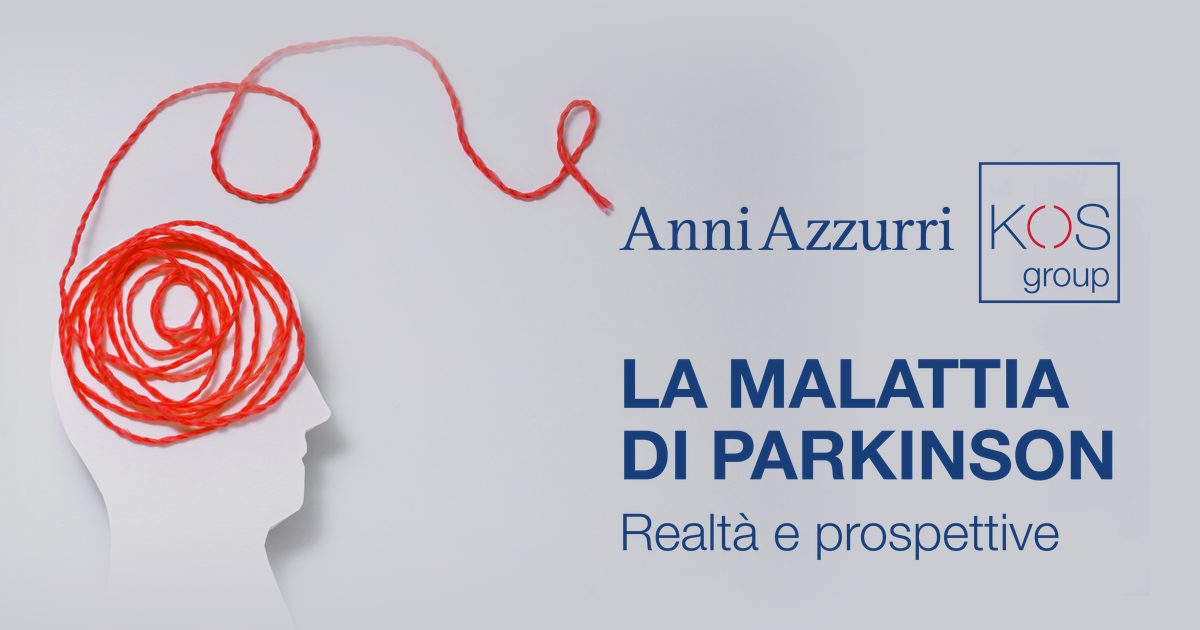
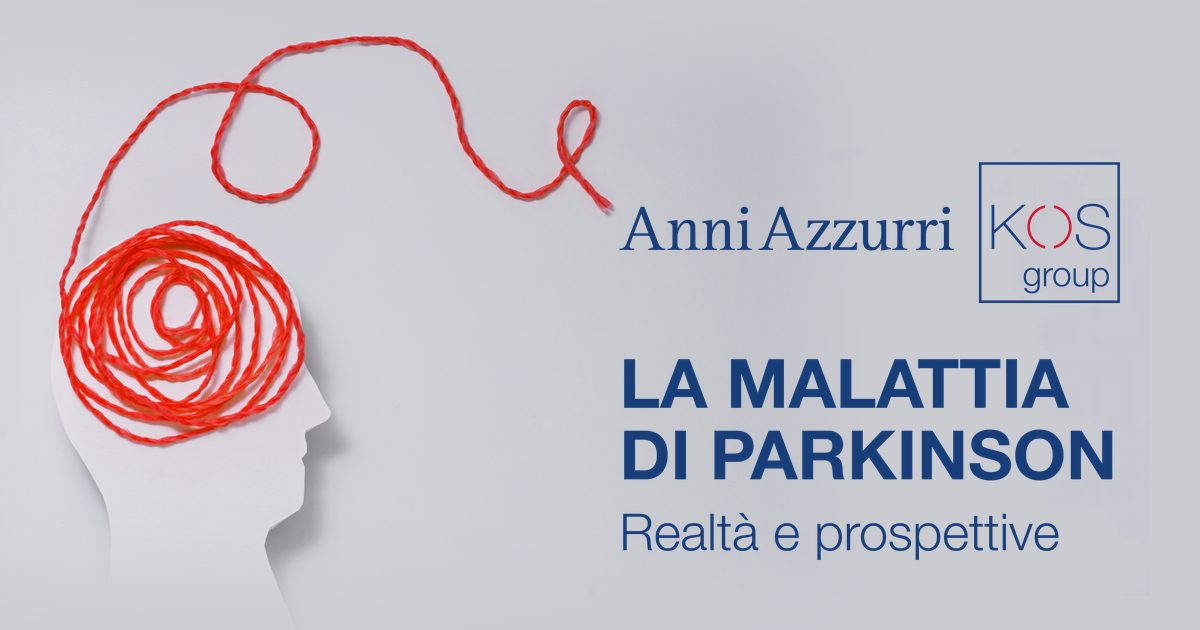
Extra aa-convegno-parkinson, aa-calendario-convegni: filo non sbiadito nelle immagini, opzione --aggiorna-file

diff --git a/extra/aa-calendario-convegni/installa.php b/extra/aa-calendario-convegni/installa.php
@@ -9,6 +9,7 @@
  * Uso (in SSH sul cloud, dalla cartella estratta dall'archivio):
  *   php installa.php /www                 prova: controlla tutto e mostra cosa cambierebbe, non scrive
  *   php installa.php /www --scrivi        installa
+ *   php installa.php /www --aggiorna-file [--scrivi]  sostituisce i file di files/ cambiati (backup e ripristino)
  *   php installa.php /www --ripristina ~/backup-kos-seo-geo/<data>-calendario-convegni/ripristino.json [--scrivi]
  *   php installa.php --test               prova la sostituzione del blocco su baseline/convegni-e-webinar.html (senza MODX)
  *
@@ -113,18 +114,18 @@ if ($fileRip !== null) {
     $r = json_decode((string) @file_get_contents($fileRip), true);
     if (!is_array($r)) { fwrite(STDERR, "Manifest di ripristino non leggibile: $fileRip\n"); exit(1); }
     echo ($scrivi ? "== RIPRISTINO" : "== PROVA DI RIPRISTINO (aggiungere --scrivi)") . " da $fileRip\n";
-    foreach ($r['contenuti'] as $x) {
+    foreach ($r['contenuti'] ?? [] as $x) {
         if (!is_file($x['file'])) { echo "  ! backup mancante: {$x['file']} — FERMO\n"; exit(2); }
     }
-    foreach ($r['contenuti'] as $x) {
+    foreach ($r['contenuti'] ?? [] as $x) {
         echo "  ~ risorsa {$x['id']}: contenuto originale\n";
         if ($scrivi && ($o = $modx->getObject(modResource::class, $x['id']))) { $o->set('content', file_get_contents($x['file'])); $o->save(); }
     }
-    foreach ($r['riassunti'] as $id => $vecchio) {
+    foreach ($r['riassunti'] ?? [] as $id => $vecchio) {
         echo "  ~ risorsa $id: riassunto «{$vecchio}»\n";
         if ($scrivi && ($o = $modx->getObject(modResource::class, (int) $id))) { $o->set('introtext', $vecchio); $o->save(); }
     }
-    foreach ($r['tv'] as $nome) {
+    foreach ($r['tv'] ?? [] as $nome) {
         echo "  - TV $nome (con valori e collegamenti)\n";
         if ($scrivi && ($tv = $modx->getObject(modTemplateVar::class, ['name' => $nome]))) {
             foreach ([modTemplateVarResource::class, modTemplateVarTemplate::class] as $cl) {
@@ -134,16 +135,53 @@ if ($fileRip !== null) {
             $tv->remove();
         }
     }
-    foreach ($r['elementi'] as $x) {
+    foreach ($r['elementi'] ?? [] as $x) {
         echo "  - {$x['type']} {$x['name']}\n";
         $cl = $x['type'] === 'snippet' ? modSnippet::class : modChunk::class;
         if ($scrivi && ($o = $modx->getObject($cl, ['name' => $x['name']]))) $o->remove();
+    }
+    foreach ($r['file_sostituiti'] ?? [] as $x) {
+        echo "  ~ file /{$x['file']}: versione precedente\n";
+        if ($scrivi) copy($x['backup'], "$webroot/{$x['file']}");
     }
     foreach ($r['file_creati'] as $f) {
         echo "  - file /$f\n";
         if ($scrivi) @unlink("$webroot/$f");
     }
     if ($scrivi) { $modx->cacheManager->refresh(); echo "== Cache svuotata.\n"; }
+    exit(0);
+}
+
+/* ---------- solo file: sostituisce immagini e documenti cambiati (con backup) ---------- */
+
+if (in_array('--aggiorna-file', $argv, true)) {
+    echo ($scrivi ? "== AGGIORNAMENTO FILE" : "== PROVA AGGIORNAMENTO FILE (aggiungere --scrivi)") . "\n";
+    $sorg = "$DIR/files";
+    $daFare = [];
+    foreach (new RecursiveIteratorIterator(new RecursiveDirectoryIterator($sorg, FilesystemIterator::SKIP_DOTS)) as $f) {
+        $rel = str_replace('\\', '/', substr($f->getPathname(), strlen($sorg) + 1));
+        $dest = "$webroot/$rel";
+        if (!is_file($dest)) { echo "  + /$rel (nuovo)\n"; $daFare[$rel] = [$f->getPathname(), false]; }
+        elseif (md5_file($dest) === md5_file($f->getPathname())) echo "  = /$rel invariato\n";
+        else { echo "  ~ /$rel (sostituito, il precedente va nel backup)\n"; $daFare[$rel] = [$f->getPathname(), true]; }
+    }
+    if (!$daFare) { echo "== Niente da aggiornare.\n"; exit(0); }
+    if (!$scrivi) { echo "== Prova riuscita. Rilanciare con --aggiorna-file --scrivi.\n"; exit(0); }
+    $bk = rtrim((string) (getenv('HOME') ?: $DIR), '/') . '/backup-kos-seo-geo/' . date('Ymd-His') . '-' . 'calendario-convegni' . '-file';
+    $rip = ['file_creati' => [], 'file_sostituiti' => []];
+    foreach ($daFare as $rel => [$src, $esiste]) {
+        if (!is_dir(dirname("$webroot/$rel"))) { echo "  ! cartella /" . dirname($rel) . " mancante — saltato\n"; continue; }
+        if ($esiste) {
+            @mkdir(dirname("$bk/file/$rel"), 0775, true);
+            copy("$webroot/$rel", "$bk/file/$rel");
+            $rip['file_sostituiti'][] = ['file' => $rel, 'backup' => "$bk/file/$rel"];
+        } else $rip['file_creati'][] = $rel;
+        copy($src, "$webroot/$rel");
+        @mkdir($bk, 0775, true);
+        file_put_contents("$bk/ripristino.json", json_encode($rip, JSON_PRETTY_PRINT | JSON_UNESCAPED_SLASHES));
+    }
+    $modx->cacheManager->refresh();      // le varianti di immagine si rigenerano (file più recente delle varianti)
+    echo "== File aggiornati, cache svuotata. Ripristino: php installa.php /www --ripristina $bk/ripristino.json --scrivi\n";
     exit(0);
 }
 

diff --git a/extra/aa-convegno-parkinson/installa.php b/extra/aa-convegno-parkinson/installa.php
@@ -11,6 +11,7 @@
  *   php installa.php /www --scrivi             installa le pagine NON pubblicate (anteprima dal manager)
  *   php installa.php /www --scrivi --pubblica  installa e pubblica (stage, o produzione ad approvazione)
  *   php installa.php /www --pubblica --scrivi  con le pagine già installate: le pubblica e basta
+ *   php installa.php /www --aggiorna-file [--scrivi]  sostituisce i file di files/ cambiati (backup e ripristino)
  *   php installa.php /www --ripristina ~/backup-kos-seo-geo/<data>-convegno-parkinson/ripristino.json [--scrivi]
  *
  * Cosa fa (con manifest di ripristino):
@@ -109,24 +110,61 @@ if ($fileRip !== null) {
     $r = json_decode((string) @file_get_contents($fileRip), true);
     if (!is_array($r)) { fwrite(STDERR, "Manifest di ripristino non leggibile: $fileRip\n"); exit(1); }
     echo ($scrivi ? "== RIPRISTINO" : "== PROVA DI RIPRISTINO (aggiungere --scrivi)") . " da $fileRip\n";
-    foreach ($r['risorse_create'] as $id) {
+    foreach ($r['risorse_create'] ?? [] as $id) {
         $o = $modx->getObject(modResource::class, $id);
         echo "  - risorsa $id" . ($o ? " «{$o->get('pagetitle')}» (/{$o->get('uri')})" : ' (già assente)') . "\n";
         if ($scrivi && $o) $o->remove();               // rimuove anche valori TV e gruppi
     }
-    foreach ($r['chunk_creati'] as $n) {
+    foreach ($r['chunk_creati'] ?? [] as $n) {
         echo "  - chunk $n\n";
         if ($scrivi && ($o = $modx->getObject(modChunk::class, ['name' => $n]))) $o->remove();
+    }
+    foreach ($r['file_sostituiti'] ?? [] as $x) {
+        echo "  ~ file /{$x['file']}: versione precedente\n";
+        if ($scrivi) copy($x['backup'], "$webroot/{$x['file']}");
     }
     foreach ($r['file_creati'] as $f) {
         echo "  - file /$f\n";
         if ($scrivi) @unlink("$webroot/$f");
     }
-    foreach (array_reverse($r['cartelle_create']) as $d) {
+    foreach (array_reverse($r['cartelle_create'] ?? []) as $d) {
         echo "  - cartella /$d (se vuota)\n";
         if ($scrivi) @rmdir("$webroot/$d");
     }
     if ($scrivi) { $modx->cacheManager->refresh(); echo "== Cache svuotata.\n"; }
+    exit(0);
+}
+
+/* ---------- solo file: sostituisce immagini e documenti cambiati (con backup) ---------- */
+
+if (in_array('--aggiorna-file', $argv, true)) {
+    echo ($scrivi ? "== AGGIORNAMENTO FILE" : "== PROVA AGGIORNAMENTO FILE (aggiungere --scrivi)") . "\n";
+    $sorg = "$DIR/files";
+    $daFare = [];
+    foreach (new RecursiveIteratorIterator(new RecursiveDirectoryIterator($sorg, FilesystemIterator::SKIP_DOTS)) as $f) {
+        $rel = str_replace('\\', '/', substr($f->getPathname(), strlen($sorg) + 1));
+        $dest = "$webroot/$rel";
+        if (!is_file($dest)) { echo "  + /$rel (nuovo)\n"; $daFare[$rel] = [$f->getPathname(), false]; }
+        elseif (md5_file($dest) === md5_file($f->getPathname())) echo "  = /$rel invariato\n";
+        else { echo "  ~ /$rel (sostituito, il precedente va nel backup)\n"; $daFare[$rel] = [$f->getPathname(), true]; }
+    }
+    if (!$daFare) { echo "== Niente da aggiornare.\n"; exit(0); }
+    if (!$scrivi) { echo "== Prova riuscita. Rilanciare con --aggiorna-file --scrivi.\n"; exit(0); }
+    $bk = rtrim((string) (getenv('HOME') ?: $DIR), '/') . '/backup-kos-seo-geo/' . date('Ymd-His') . '-' . 'convegno-parkinson' . '-file';
+    $rip = ['file_creati' => [], 'file_sostituiti' => []];
+    foreach ($daFare as $rel => [$src, $esiste]) {
+        if (!is_dir(dirname("$webroot/$rel"))) { echo "  ! cartella /" . dirname($rel) . " mancante — saltato\n"; continue; }
+        if ($esiste) {
+            @mkdir(dirname("$bk/file/$rel"), 0775, true);
+            copy("$webroot/$rel", "$bk/file/$rel");
+            $rip['file_sostituiti'][] = ['file' => $rel, 'backup' => "$bk/file/$rel"];
+        } else $rip['file_creati'][] = $rel;
+        copy($src, "$webroot/$rel");
+        @mkdir($bk, 0775, true);
+        file_put_contents("$bk/ripristino.json", json_encode($rip, JSON_PRETTY_PRINT | JSON_UNESCAPED_SLASHES));
+    }
+    $modx->cacheManager->refresh();      // le varianti di immagine si rigenerano (file più recente delle varianti)
+    echo "== File aggiornati, cache svuotata. Ripristino: php installa.php /www --ripristina $bk/ripristino.json --scrivi\n";
     exit(0);
 }
 

diff --git a/extra/aa-convegno-parkinson/genera-immagini.py b/extra/aa-convegno-parkinson/genera-immagini.py
@@ -12,7 +12,7 @@ Uso:  python3 genera-immagini.py          (servono Pillow, numpy, pdftoppm)
 """
 import pathlib, shutil, subprocess, tempfile
 import numpy as np
-from PIL import Image, ImageFilter
+from PIL import Image, ImageChops, ImageFilter
 
 Image.MAX_IMAGE_PIXELS = None
 DIR = pathlib.Path(__file__).resolve().parent
@@ -75,6 +75,10 @@ def sfondo_esteso(foto, W, H, scala, x, y):
     sf = max(8, int(min(fw, fh) * 0.12))
     m.paste(255, (sf, sf, fw - sf, fh - sf))
     m = m.filter(ImageFilter.GaussianBlur(sf / 2))
+    # il filo resta sempre pieno: la sfumatura dei bordi lo schiariva dove arriva vicino al margine della foto
+    sat = np.asarray(f.convert("HSV"))[..., 1]
+    filo = Image.fromarray(((sat > 70) * 255).astype(np.uint8), "L").filter(ImageFilter.MaxFilter(5)).filter(ImageFilter.GaussianBlur(1.5))
+    m = ImageChops.lighter(m, filo)
     tela.paste(f, (x, y), m)
     return tela
 

diff --git a/extra/aa-calendario-convegni/README.md b/extra/aa-calendario-convegni/README.md
@@ -77,6 +77,10 @@ Dopo il rilascio, su `/convegni-e-webinar`:
 Prova della scadenza: sullo stage si mette nel Mantello una `evento_data` di ieri. La sua card sparisce, e se non
 resta nessun convegno compare il testo «Al momento non ci sono convegni in programma…».
 
+Immagini o documenti di `files/` cambiati dopo l'installazione: `php installa.php /www --aggiorna-file`, poi con
+`--scrivi`. Sostituisce solo i file diversi, salva i precedenti nel backup, svuota la cache (le varianti
+dello snippet `immagine` si rigenerano da sole) e stampa il comando di ripristino. Pagine, TV e chunk non cambiano.
+
 Ripristino: il comando esatto è stampato alla fine dell'installazione
 (`php installa.php /www --ripristina ~/backup-kos-seo-geo/<data>-calendario-convegni/ripristino.json --scrivi`):
 rimette il contenuto originale della pagina e il riassunto del Mantello, poi toglie TV (con i valori), snippet,

diff --git a/extra/aa-convegno-parkinson/README.md b/extra/aa-convegno-parkinson/README.md
@@ -72,6 +72,10 @@ Dopo il rilascio:
 - pagina evento: testata desktop e mobile, «Scarica la locandina», pulsante «Iscrizioni online», `og:image`
   (`/assets/img/convegno-parkinson-realta-prospettive.jpg`) nel sorgente.
 
+Immagini o documenti di `files/` cambiati dopo l'installazione: `php installa.php /www --aggiorna-file`, poi con
+`--scrivi`. Sostituisce solo i file diversi, salva i precedenti nel backup, svuota la cache (le varianti
+dello snippet `immagine` si rigenerano da sole) e stampa il comando di ripristino. Pagine, TV e chunk non cambiano.
+
 Ripristino: il comando esatto è stampato alla fine dell'installazione
 (`php installa.php /www --ripristina ~/backup-kos-seo-geo/<data>-convegno-parkinson/ripristino.json --scrivi`):
 rimuove le due pagine (con le TV), il chunk e i file copiati. Le iscrizioni già salvate da FormIt restano.
